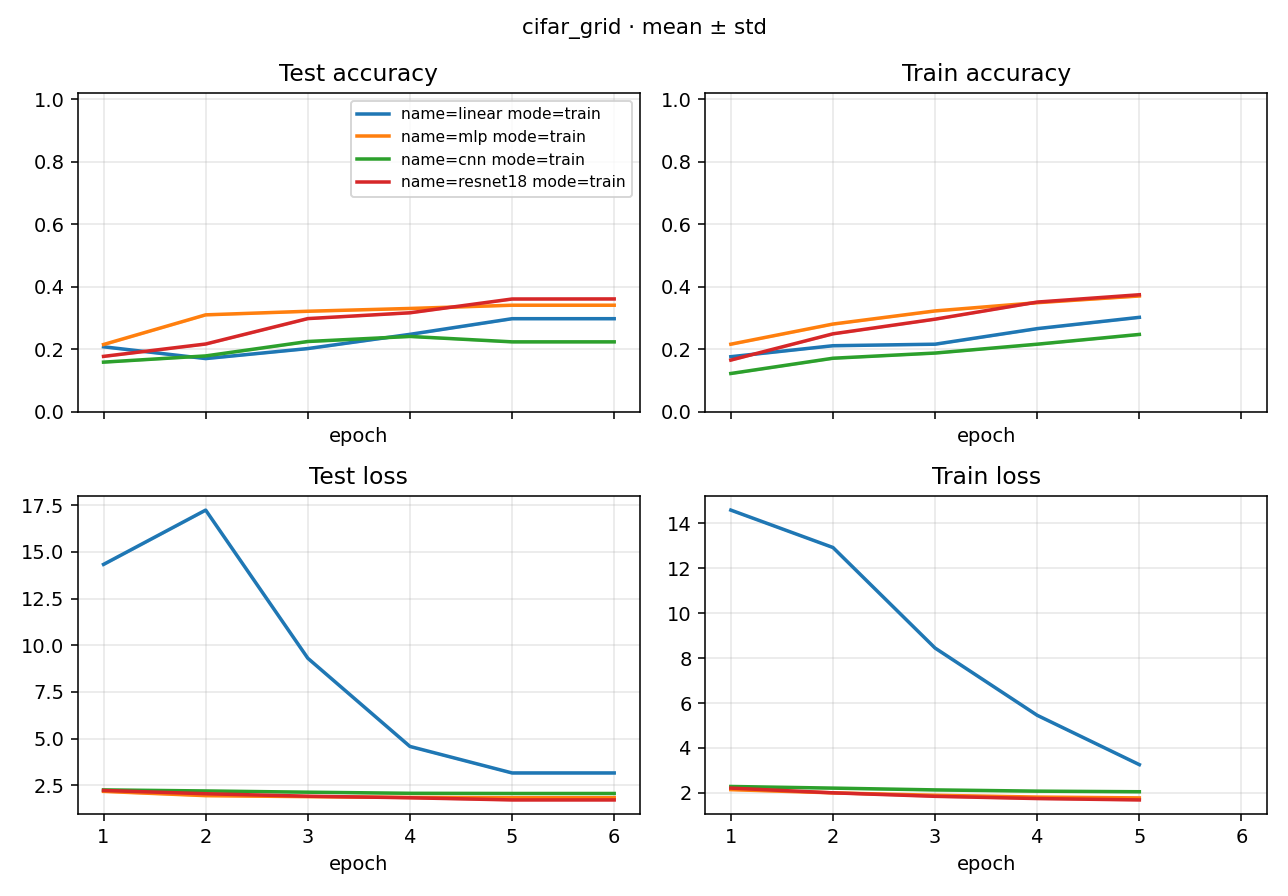
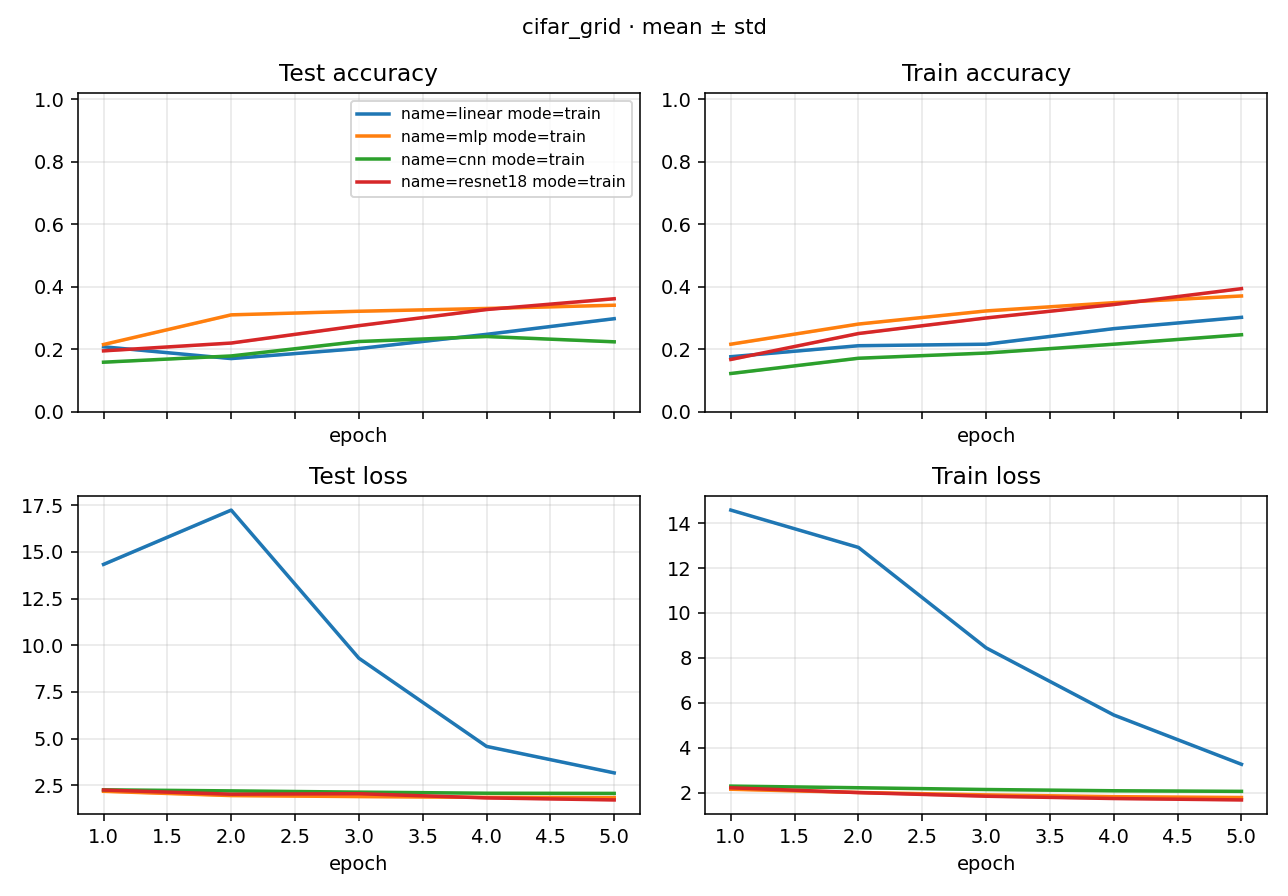
Record estimated and actual run time in each study report.
Plans keep the pre-launch estimate. Reports put the round wall in the run narrative and est/actual on each Runs row, so another machine can read the cost from git.

diff --git a/studies/mnist_native_vs_hf/docs/STUDY_REPORT.md b/studies/mnist_native_vs_hf/docs/STUDY_REPORT.md
@@ -14,7 +14,7 @@ python -m rpipe make studies/mnist_native_vs_hf
 python -m rpipe launch studies/mnist_native_vs_hf --console shared
 ```
 
-机器：RTX 5090 D v2 主机，但本 Study 全部使用 CPU。make：`pack 5 waits: 4[linear×4], 4[linear×4], 4[linear×4], 4[linear×4], 2[linear×2] est wall 5m20s | CPU`；18 个 job 均为 `device: cpu`，没有 `gpu` 字段，launch 标签为 `+ cpu`。实测约 2m31s。18/18 `succeeded`，全部从 epoch 1 跑到 epoch 20。error / resume：无。
+机器：RTX 5090 D v2 主机，但本 Study 全部使用 CPU。make：`pack 5 waits`；18 个 job 均为 `device: cpu`，没有 `gpu` 字段，launch 标签为 `+ cpu`。整轮预估 5m20s，实际 2m53s。18/18 `succeeded`，全部从 epoch 1 跑到 epoch 20。error / resume：无。每条 Run 的预估和实际在下面的 Runs 表。
 
 ## 2. Conclusion
 
@@ -40,26 +40,26 @@ python -m rpipe launch studies/mnist_native_vs_hf --console shared
 
 点表格里的 **run.log** 打开该次日志。结论仍按 Experiment。
 
-| factors | seed | id | accuracy | best | log |
-|---------|------|----|----------|------|-----|
-| custom_torch train_size=500 | 0 | `7c48352c847b2096` | 0.8328 | 0.8346 | [run.log](../runs/7c48352c847b2096/assets/logs/run.log) |
-| custom_torch train_size=500 | 1 | `5662540f720e8797` | 0.8341 | 0.8344 | [run.log](../runs/5662540f720e8797/assets/logs/run.log) |
-| custom_torch train_size=500 | 2 | `5bb24f8a4b518994` | 0.8359 | 0.8375 | [run.log](../runs/5bb24f8a4b518994/assets/logs/run.log) |
-| transformers_trainer train_size=500 | 0 | `6b3522139506555d` | 0.8328 | 0.8346 | [run.log](../runs/6b3522139506555d/assets/logs/run.log) |
-| transformers_trainer train_size=500 | 1 | `7036783459b4dee3` | 0.8341 | 0.8344 | [run.log](../runs/7036783459b4dee3/assets/logs/run.log) |
-| transformers_trainer train_size=500 | 2 | `e006258b46e5e54c` | 0.8359 | 0.8375 | [run.log](../runs/e006258b46e5e54c/assets/logs/run.log) |
-| custom_torch train_size=2000 | 0 | `c96de76cbb910155` | 0.8818 | 0.8841 | [run.log](../runs/c96de76cbb910155/assets/logs/run.log) |
-| custom_torch train_size=2000 | 1 | `7d8d11439fd02689` | 0.8828 | 0.8835 | [run.log](../runs/7d8d11439fd02689/assets/logs/run.log) |
-| custom_torch train_size=2000 | 2 | `71a8ba2c73de2c4f` | 0.8846 | 0.8851 | [run.log](../runs/71a8ba2c73de2c4f/assets/logs/run.log) |
-| transformers_trainer train_size=2000 | 0 | `529a5bf98413e51e` | 0.8818 | 0.8841 | [run.log](../runs/529a5bf98413e51e/assets/logs/run.log) |
-| transformers_trainer train_size=2000 | 1 | `c5847d1f3f2da766` | 0.8828 | 0.8835 | [run.log](../runs/c5847d1f3f2da766/assets/logs/run.log) |
-| transformers_trainer train_size=2000 | 2 | `6ab372aeaa9bd64a` | 0.8846 | 0.8851 | [run.log](../runs/6ab372aeaa9bd64a/assets/logs/run.log) |
-| custom_torch train_size=8000 | 0 | `e971cf5220878f98` | 0.9065 | 0.9070 | [run.log](../runs/e971cf5220878f98/assets/logs/run.log) |
-| custom_torch train_size=8000 | 1 | `a34e2f965d427746` | 0.9056 | 0.9072 | [run.log](../runs/a34e2f965d427746/assets/logs/run.log) |
-| custom_torch train_size=8000 | 2 | `8de79ab58f66b2bb` | 0.9062 | 0.9078 | [run.log](../runs/8de79ab58f66b2bb/assets/logs/run.log) |
-| transformers_trainer train_size=8000 | 0 | `021d59955431eda9` | 0.9067 | 0.9069 | [run.log](../runs/021d59955431eda9/assets/logs/run.log) |
-| transformers_trainer train_size=8000 | 1 | `38b06b38804eb60e` | 0.9069 | 0.9082 | [run.log](../runs/38b06b38804eb60e/assets/logs/run.log) |
-| transformers_trainer train_size=8000 | 2 | `71be2847ca254e8e` | 0.9071 | 0.9078 | [run.log](../runs/71be2847ca254e8e/assets/logs/run.log) |
+| factors | seed | id | accuracy | best | est | actual | log |
+|---------|------|----|----------|------|-----|--------|-----|
+| custom_torch train_size=500 | 0 | `7c48352c847b2096` | 0.8328 | 0.8346 | 5s | 24s | [run.log](../runs/7c48352c847b2096/assets/logs/run.log) |
+| custom_torch train_size=500 | 1 | `5662540f720e8797` | 0.8341 | 0.8344 | 5s | 24s | [run.log](../runs/5662540f720e8797/assets/logs/run.log) |
+| custom_torch train_size=500 | 2 | `5bb24f8a4b518994` | 0.8359 | 0.8375 | 5s | 24s | [run.log](../runs/5bb24f8a4b518994/assets/logs/run.log) |
+| transformers_trainer train_size=500 | 0 | `6b3522139506555d` | 0.8328 | 0.8346 | 5s | 30s | [run.log](../runs/6b3522139506555d/assets/logs/run.log) |
+| transformers_trainer train_size=500 | 1 | `7036783459b4dee3` | 0.8341 | 0.8344 | 5s | 30s | [run.log](../runs/7036783459b4dee3/assets/logs/run.log) |
+| transformers_trainer train_size=500 | 2 | `e006258b46e5e54c` | 0.8359 | 0.8375 | 5s | 30s | [run.log](../runs/e006258b46e5e54c/assets/logs/run.log) |
+| custom_torch train_size=2000 | 0 | `c96de76cbb910155` | 0.8818 | 0.8841 | 20s | 26s | [run.log](../runs/c96de76cbb910155/assets/logs/run.log) |
+| custom_torch train_size=2000 | 1 | `7d8d11439fd02689` | 0.8828 | 0.8835 | 20s | 27s | [run.log](../runs/7d8d11439fd02689/assets/logs/run.log) |
+| custom_torch train_size=2000 | 2 | `71a8ba2c73de2c4f` | 0.8846 | 0.8851 | 20s | 27s | [run.log](../runs/71a8ba2c73de2c4f/assets/logs/run.log) |
+| transformers_trainer train_size=2000 | 0 | `529a5bf98413e51e` | 0.8818 | 0.8841 | 20s | 30s | [run.log](../runs/529a5bf98413e51e/assets/logs/run.log) |
+| transformers_trainer train_size=2000 | 1 | `c5847d1f3f2da766` | 0.8828 | 0.8835 | 20s | 30s | [run.log](../runs/c5847d1f3f2da766/assets/logs/run.log) |
+| transformers_trainer train_size=2000 | 2 | `6ab372aeaa9bd64a` | 0.8846 | 0.8851 | 20s | 30s | [run.log](../runs/6ab372aeaa9bd64a/assets/logs/run.log) |
+| custom_torch train_size=8000 | 0 | `e971cf5220878f98` | 0.9065 | 0.9070 | 1m15s | 37s | [run.log](../runs/e971cf5220878f98/assets/logs/run.log) |
+| custom_torch train_size=8000 | 1 | `a34e2f965d427746` | 0.9056 | 0.9072 | 1m15s | 37s | [run.log](../runs/a34e2f965d427746/assets/logs/run.log) |
+| custom_torch train_size=8000 | 2 | `8de79ab58f66b2bb` | 0.9062 | 0.9078 | 1m15s | 34s | [run.log](../runs/8de79ab58f66b2bb/assets/logs/run.log) |
+| transformers_trainer train_size=8000 | 0 | `021d59955431eda9` | 0.9067 | 0.9069 | 1m15s | 39s | [run.log](../runs/021d59955431eda9/assets/logs/run.log) |
+| transformers_trainer train_size=8000 | 1 | `38b06b38804eb60e` | 0.9069 | 0.9082 | 1m15s | 34s | [run.log](../runs/38b06b38804eb60e/assets/logs/run.log) |
+| transformers_trainer train_size=8000 | 2 | `71be2847ca254e8e` | 0.9071 | 0.9078 | 1m15s | 34s | [run.log](../runs/71be2847ca254e8e/assets/logs/run.log) |
 
 ## 5. Reproduce
 

diff --git a/studies/mnist_train_size/docs/STUDY_REPORT.md b/studies/mnist_train_size/docs/STUDY_REPORT.md
@@ -14,7 +14,7 @@ python -m rpipe make studies/mnist_train_size --num-gpus 1 --init-gpu 0
 python -m rpipe launch studies/mnist_train_size --num-gpus 1 --init-gpu 0 --console shared
 ```
 
-机器：1× RTX 5090 D v2。make：`pack 2 waits: 9[linear×9], 9[linear×9] est wall 1m34s`。实测约 40s。18/18 `succeeded`；train 全部从 epoch 1 跑到 epoch 20，随后 eval 加载 sibling train 的 `best.pt`。eval accuracy mean 对齐同格子 train 的 `best_accuracy` mean。error / resume：无。
+机器：1× RTX 5090 D v2。make：`pack 2 waits`。整轮预估 1m34s，实际 42s。18/18 `succeeded`；train 全部从 epoch 1 跑到 epoch 20，随后 eval 加载 sibling train 的 `best.pt`。eval accuracy mean 对齐同格子 train 的 `best_accuracy` mean。error / resume：无。每条 Run 的预估和实际在下面的 Runs 表。
 
 ## 2. Conclusion
 
@@ -38,26 +38,26 @@ python -m rpipe launch studies/mnist_train_size --num-gpus 1 --init-gpu 0 --cons
 
 点表格里的 **run.log** 打开该次日志（源码视图用 Ctrl+点击；预览里直接点）。结论仍按 Experiment。
 
-| factors | seed | id | accuracy | log |
-|---------|------|----|----------|-----|
-| train_size=500 train | 0 | `8176170127f91cf0` | 0.8328 | [run.log](../runs/8176170127f91cf0/assets/logs/run.log) |
-| train_size=500 train | 1 | `fc81e18a5207a45d` | 0.8341 | [run.log](../runs/fc81e18a5207a45d/assets/logs/run.log) |
-| train_size=500 train | 2 | `442977f37212ef68` | 0.8359 | [run.log](../runs/442977f37212ef68/assets/logs/run.log) |
-| train_size=500 eval | 0 | `e957d8a364952d1f` | 0.8346 | [run.log](../runs/e957d8a364952d1f/assets/logs/run.log) |
-| train_size=500 eval | 1 | `dff1613a7bc1fd5f` | 0.8344 | [run.log](../runs/dff1613a7bc1fd5f/assets/logs/run.log) |
-| train_size=500 eval | 2 | `56bc9bd79216fbba` | 0.8375 | [run.log](../runs/56bc9bd79216fbba/assets/logs/run.log) |
-| train_size=2000 train | 0 | `d48fd72e60c7f6ac` | 0.8818 | [run.log](../runs/d48fd72e60c7f6ac/assets/logs/run.log) |
-| train_size=2000 train | 1 | `bb1c4bab027af782` | 0.8828 | [run.log](../runs/bb1c4bab027af782/assets/logs/run.log) |
-| train_size=2000 train | 2 | `31c40cec0f6d9cd5` | 0.8846 | [run.log](../runs/31c40cec0f6d9cd5/assets/logs/run.log) |
-| train_size=2000 eval | 0 | `478225eadad22061` | 0.8841 | [run.log](../runs/478225eadad22061/assets/logs/run.log) |
-| train_size=2000 eval | 1 | `b42b4fd9d969a3d6` | 0.8835 | [run.log](../runs/b42b4fd9d969a3d6/assets/logs/run.log) |
-| train_size=2000 eval | 2 | `02214314ba92307e` | 0.8851 | [run.log](../runs/02214314ba92307e/assets/logs/run.log) |
-| train_size=8000 train | 0 | `ae8cf11290ed6b54` | 0.9065 | [run.log](../runs/ae8cf11290ed6b54/assets/logs/run.log) |
-| train_size=8000 train | 1 | `8217ff232db48b12` | 0.9056 | [run.log](../runs/8217ff232db48b12/assets/logs/run.log) |
-| train_size=8000 train | 2 | `778bd5b434d18762` | 0.9062 | [run.log](../runs/778bd5b434d18762/assets/logs/run.log) |
-| train_size=8000 eval | 0 | `92abeedb98737917` | 0.9070 | [run.log](../runs/92abeedb98737917/assets/logs/run.log) |
-| train_size=8000 eval | 1 | `9d9e6347dee60c86` | 0.9072 | [run.log](../runs/9d9e6347dee60c86/assets/logs/run.log) |
-| train_size=8000 eval | 2 | `a83a100692ba2930` | 0.9078 | [run.log](../runs/a83a100692ba2930/assets/logs/run.log) |
+| factors | seed | id | accuracy | est | actual | log |
+|---------|------|----|----------|-----|--------|-----|
+| train_size=500 train | 0 | `8176170127f91cf0` | 0.8328 | 5s | 24s | [run.log](../runs/8176170127f91cf0/assets/logs/run.log) |
+| train_size=500 train | 1 | `fc81e18a5207a45d` | 0.8341 | 5s | 24s | [run.log](../runs/fc81e18a5207a45d/assets/logs/run.log) |
+| train_size=500 train | 2 | `442977f37212ef68` | 0.8359 | 5s | 24s | [run.log](../runs/442977f37212ef68/assets/logs/run.log) |
+| train_size=500 eval | 0 | `e957d8a364952d1f` | 0.8346 | 2s | 4s | [run.log](../runs/e957d8a364952d1f/assets/logs/run.log) |
+| train_size=500 eval | 1 | `dff1613a7bc1fd5f` | 0.8344 | 2s | 4s | [run.log](../runs/dff1613a7bc1fd5f/assets/logs/run.log) |
+| train_size=500 eval | 2 | `56bc9bd79216fbba` | 0.8375 | 2s | 4s | [run.log](../runs/56bc9bd79216fbba/assets/logs/run.log) |
+| train_size=2000 train | 0 | `d48fd72e60c7f6ac` | 0.8818 | 20s | 26s | [run.log](../runs/d48fd72e60c7f6ac/assets/logs/run.log) |
+| train_size=2000 train | 1 | `bb1c4bab027af782` | 0.8828 | 20s | 27s | [run.log](../runs/bb1c4bab027af782/assets/logs/run.log) |
+| train_size=2000 train | 2 | `31c40cec0f6d9cd5` | 0.8846 | 20s | 27s | [run.log](../runs/31c40cec0f6d9cd5/assets/logs/run.log) |
+| train_size=2000 eval | 0 | `478225eadad22061` | 0.8841 | 5s | 4s | [run.log](../runs/478225eadad22061/assets/logs/run.log) |
+| train_size=2000 eval | 1 | `b42b4fd9d969a3d6` | 0.8835 | 5s | 4s | [run.log](../runs/b42b4fd9d969a3d6/assets/logs/run.log) |
+| train_size=2000 eval | 2 | `02214314ba92307e` | 0.8851 | 5s | 4s | [run.log](../runs/02214314ba92307e/assets/logs/run.log) |
+| train_size=8000 train | 0 | `ae8cf11290ed6b54` | 0.9065 | 1m15s | 37s | [run.log](../runs/ae8cf11290ed6b54/assets/logs/run.log) |
+| train_size=8000 train | 1 | `8217ff232db48b12` | 0.9056 | 1m15s | 37s | [run.log](../runs/8217ff232db48b12/assets/logs/run.log) |
+| train_size=8000 train | 2 | `778bd5b434d18762` | 0.9062 | 1m15s | 37s | [run.log](../runs/778bd5b434d18762/assets/logs/run.log) |
+| train_size=8000 eval | 0 | `92abeedb98737917` | 0.9070 | 19s | 4s | [run.log](../runs/92abeedb98737917/assets/logs/run.log) |
+| train_size=8000 eval | 1 | `9d9e6347dee60c86` | 0.9072 | 19s | 4s | [run.log](../runs/9d9e6347dee60c86/assets/logs/run.log) |
+| train_size=8000 eval | 2 | `a83a100692ba2930` | 0.9078 | 19s | 4s | [run.log](../runs/a83a100692ba2930/assets/logs/run.log) |
 
 ## 5. Reproduce
 

diff --git a/studies/cifar_grid/docs/STUDY_REPORT.md b/studies/cifar_grid/docs/STUDY_REPORT.md
@@ -1,7 +1,7 @@
 # Study Report: cifar_grid
 
 > Plan: [PLAN.md](PLAN.md)
-> Date: 2026-09-26
+> Date: 2026-09-30
 > Recipe: CIFAR10 + custom_torch；`origin: domestic`；`train_size=1024`；5 epoch；SGD + cosine。axes = `model.name` × `{train, eval}`。seed = 0。
 > Location: Study `docs/`。数字读 `../process.json`。日志按 index 的 `log` 链到各 Run 的 `run.log`。
 
@@ -15,7 +15,7 @@ python -m rpipe launch studies/cifar_grid --num-gpus 1 --init-gpu 0 --console sh
 python -m rpipe status studies/cifar_grid
 ```
 
-机器：1× RTX 5090 D v2。make：`pack 8 waits: 1[linear], 1[mlp], 1[cnn], 1[resnet18], 1[linear], 1[mlp], 1[cnn], 1[resnet18] est wall 43s`。launch 实测约 87s。8/8 `succeeded`。train 从 epoch 1 跑到 epoch 5，随后 eval 加载 sibling train 的 `best.pt`。error / resume：mlp eval `f487ffe68a52f01c` 第一次 prepare 报 `operator torchvision::nms does not exist`，launch 自动 retry 后成功。见 [BUGS.md](../../../docs/BUGS.md) B-007。
+机器：1× RTX 5090 D v2。make：`pack 8 waits`。整轮预估 43s，实际 1m21s。8/8 `succeeded`。train 从 epoch 1 跑到 epoch 5，随后 eval 加载 sibling train 的 `best.pt`。这次没有 `torchvision::nms`，也没有 retry。2026-09-26 那次 mlp eval 的失败仍记在 [BUGS.md](../../../docs/BUGS.md) B-007，状态保持 open。每条 Run 的预估和实际在下面的 Runs 表。
 
 ## 2. Conclusion
 
@@ -23,12 +23,12 @@ python -m rpipe status studies/cifar_grid
 
 | model | eval accuracy |
 |-------|---------------|
-| resnet18 | 0.3615 |
+| resnet18 | 0.3621 |
 | mlp | 0.3415 |
 | linear | 0.2984 |
-| cnn | 0.2416 |
+| cnn | 0.2413 |
 
-这 1024 张、5 个 epoch 的小子集上，resnet18 最高，mlp 次之，linear 再次，cnn 最低。cnn 的 eval 对齐的是 train 的 best（0.2416），不是最后一个 epoch 的 test accuracy（0.2243）。linear 和 mlp 的最后一个 epoch 就是 best，eval 与之相同。
+这 1024 张、5 个 epoch 的小子集上，resnet18 最高，mlp 次之，linear 再次，cnn 最低。cnn 的 eval 对齐的是 train 的 best（0.2414），不是最后一个 epoch 的 test accuracy（0.2244）。linear 和 mlp 的最后一个 epoch 就是 best，eval 与之相同。resnet18 的 eval 是 0.3621，train 最后一个 epoch 是 0.3622。
 
 ## 3. Learning curves
 
@@ -40,16 +40,16 @@ python -m rpipe status studies/cifar_grid
 
 点表格里的 **run.log** 打开该次日志（源码视图用 Ctrl+点击；预览里直接点）。结论仍按 Experiment。
 
-| model | mode | seed | id | accuracy | log |
-|-------|------|------|----|----------|-----|
-| linear | train | 0 | `28a64726010738fb` | 0.2984 | [run.log](../runs/28a64726010738fb/assets/logs/run.log) |
-| linear | eval | 0 | `3ddb5e6cf166f93f` | 0.2984 | [run.log](../runs/3ddb5e6cf166f93f/assets/logs/run.log) |
-| mlp | train | 0 | `b86a478be0bec010` | 0.3415 | [run.log](../runs/b86a478be0bec010/assets/logs/run.log) |
-| mlp | eval | 0 | `f487ffe68a52f01c` | 0.3415 | [run.log](../runs/f487ffe68a52f01c/assets/logs/run.log) |
-| cnn | train | 0 | `d657518c04ceffe1` | 0.2243 | [run.log](../runs/d657518c04ceffe1/assets/logs/run.log) |
-| cnn | eval | 0 | `e55d19bc4b3d29c2` | 0.2416 | [run.log](../runs/e55d19bc4b3d29c2/assets/logs/run.log) |
-| resnet18 | train | 0 | `7c3f855ce3396781` | 0.3614 | [run.log](../runs/7c3f855ce3396781/assets/logs/run.log) |
-| resnet18 | eval | 0 | `0f238fbd83ed13f8` | 0.3615 | [run.log](../runs/0f238fbd83ed13f8/assets/logs/run.log) |
+| model | mode | seed | id | accuracy | est | actual | log |
+|-------|------|------|----|----------|-----|--------|-----|
+| linear | train | 0 | `28a64726010738fb` | 0.2984 | 3s | 10s | [run.log](../runs/28a64726010738fb/assets/logs/run.log) |
+| linear | eval | 0 | `3ddb5e6cf166f93f` | 0.2984 | 1s | 4s | [run.log](../runs/3ddb5e6cf166f93f/assets/logs/run.log) |
+| mlp | train | 0 | `b86a478be0bec010` | 0.3415 | 4s | 8s | [run.log](../runs/b86a478be0bec010/assets/logs/run.log) |
+| mlp | eval | 0 | `f487ffe68a52f01c` | 0.3415 | 1s | 4s | [run.log](../runs/f487ffe68a52f01c/assets/logs/run.log) |
+| cnn | train | 0 | `d657518c04ceffe1` | 0.2244 | 7s | 12s | [run.log](../runs/d657518c04ceffe1/assets/logs/run.log) |
+| cnn | eval | 0 | `e55d19bc4b3d29c2` | 0.2413 | 2s | 7s | [run.log](../runs/e55d19bc4b3d29c2/assets/logs/run.log) |
+| resnet18 | train | 0 | `7c3f855ce3396781` | 0.3622 | 20s | 19s | [run.log](../runs/7c3f855ce3396781/assets/logs/run.log) |
+| resnet18 | eval | 0 | `0f238fbd83ed13f8` | 0.3621 | 5s | 13s | [run.log](../runs/0f238fbd83ed13f8/assets/logs/run.log) |
 
 ## 5. Reproduce
 

diff --git a/docs/BUGS.md b/docs/BUGS.md
@@ -22,7 +22,7 @@
 - 看见：2026-09-26 `launch studies/cifar_grid` 时，mlp 的 eval `f487ffe68a52f01c` 在 `from torchvision import datasets` 处失败：`RuntimeError: operator torchvision::nms does not exist`。同一进程稍后 `retry` 再跑，prepare 通过，eval 成功。`run.log` 里先有这次 ERROR，后面是 `flow succeeded`。其余 7 条没有这个错误。
 - 落点：`structure/system/torchvision_load.py`，由 `structure/data/factory.py` 的 `_build_torch_vision` 调用。现场日志 `studies/cifar_grid/runs/f487ffe68a52f01c/assets/logs/run.log`。
 - 方案：公开记录（[vision#9174](https://github.com/pytorch/vision/issues/9174)、[vision#8101](https://github.com/pytorch/vision/issues/8101)、[PyTorch 论坛](https://discuss.pytorch.org/t/runtimeerror-operator-torchvision-nms-does-not-exist/192829)）把这句解释成 `torchvision/_C` 没注册上。常见原因是 `torch` 与 `torchvision` 版本不配，或一个是 CPU 轮子、一个是 CUDA 轮子。`extension.py` 会吞掉真正的 `OSError`，然后 `_meta_registrations.py` 给 `nms` 登记 fake 才抛出这句。那边的修法是卸掉后从同一 index 重装配对，不是在同进程里重试导入。本机现在是 `torch 2.11.0+cu128` 与 `torchvision 0.26.0+cu128`，都在 `D:\anaconda3\Lib\site-packages`，`_has_ops()` 为 True。代码里仍会在这句错误上清掉半导入再试最多 3 次，并设 `TORCHVISION_WARN_WHEN_EXTENSION_LOADING_FAILS=1`。这层重试没有公开案例说明能治版本不配；版本不配时每次导入都会失败。
-- 验证：单测只把 `import_module` 换成假的，证明重试分支会再调一次。2026-09-26 另开 24 个新进程走 `import_torchvision()`，24 次都成功，这句错误没有再出现。同进程里 `_C` 真失败之后清掉 `sys.modules` 能否恢复，还没有打出来过。
+- 验证：单测只把 `import_module` 换成假的，证明重试分支会再调一次。2026-09-26 另开 24 个新进程走 `import_torchvision()`，24 次都成功，这句错误没有再出现。同进程里 `_C` 真失败之后清掉 `sys.modules` 能否恢复，还没有打出来过。2026-09-30 清掉 `runs/` 后从头 launch `cifar_grid`（8/8）、`mnist_train_size`（18/18）、`mnist_native_vs_hf`（18/18），日志里没有 `torchvision::nms`，也没有 retry。状态仍是 open。
 
 ---
 

diff --git a/studies/mnist_native_vs_hf/docs/PLAN.md b/studies/mnist_native_vs_hf/docs/PLAN.md
@@ -51,6 +51,32 @@ python -m rpipe make studies/mnist_native_vs_hf
 python -m rpipe launch studies/mnist_native_vs_hf --console shared
 ```
 
+## 时长预估
+
+launch 之前，按 make 的 conservative 秒数。同一 `wait` 里并行，组墙钟取该组最慢的一条；整轮是各组相加。不含显存。本 Study 在 CPU 上跑，预估表和 CUDA 用的是同一套毫秒/step。
+
+| wait | factors | mode | seed | id | est |
+|---:|---|---|---:|---|---:|
+| 1 | source=custom_torch, train_size=500 | train | 0 | `7c48352c847b2096` | 5s |
+| 1 | source=custom_torch, train_size=500 | train | 1 | `5662540f720e8797` | 5s |
+| 1 | source=custom_torch, train_size=500 | train | 2 | `5bb24f8a4b518994` | 5s |
+| 1 | source=custom_torch, train_size=2000 | train | 0 | `c96de76cbb910155` | 20s |
+| 2 | source=custom_torch, train_size=2000 | train | 1 | `7d8d11439fd02689` | 20s |
+| 2 | source=custom_torch, train_size=2000 | train | 2 | `71a8ba2c73de2c4f` | 20s |
+| 2 | source=custom_torch, train_size=8000 | train | 0 | `e971cf5220878f98` | 1m15s |
+| 2 | source=custom_torch, train_size=8000 | train | 1 | `a34e2f965d427746` | 1m15s |
+| 3 | source=custom_torch, train_size=8000 | train | 2 | `8de79ab58f66b2bb` | 1m15s |
+| 3 | source=transformers_trainer, train_size=500 | train | 0 | `6b3522139506555d` | 5s |
+| 3 | source=transformers_trainer, train_size=500 | train | 1 | `7036783459b4dee3` | 5s |
+| 3 | source=transformers_trainer, train_size=500 | train | 2 | `e006258b46e5e54c` | 5s |
+| 4 | source=transformers_trainer, train_size=2000 | train | 0 | `529a5bf98413e51e` | 20s |
+| 4 | source=transformers_trainer, train_size=2000 | train | 1 | `c5847d1f3f2da766` | 20s |
+| 4 | source=transformers_trainer, train_size=2000 | train | 2 | `6ab372aeaa9bd64a` | 20s |
+| 4 | source=transformers_trainer, train_size=8000 | train | 0 | `021d59955431eda9` | 1m15s |
+| 5 | source=transformers_trainer, train_size=8000 | train | 1 | `38b06b38804eb60e` | 1m15s |
+| 5 | source=transformers_trainer, train_size=8000 | train | 2 | `71be2847ca254e8e` | 1m15s |
+| | 整轮 | | | | 5m20s |
+
 ## 6. 刻意不做什么
 
 - 不把独立 eval 做成 Flow 阶段

diff --git a/docs/STUDY_GUIDE.md b/docs/STUDY_GUIDE.md
@@ -356,7 +356,7 @@ python -m rpipe status studies/<name> --mode eval
 
 1. 复制 `studies/_template/` 为 `studies/<name>/`，对照本指南 §1–§3。  
 2. 改 `experiment_config.yaml` 的基底；改 `study.yaml` 的 `axes` / `seeds` / `tags`。  
-3. 在 `docs/PLAN.md` 写清：比什么、什么固定、成功标准，以及 **§3 高效率排班**（同类一组、吃满 GPU、error 记下来整轮后再 resume）。  
+3. 在 `docs/PLAN.md` 写清：比什么、什么固定、成功标准，以及 **§3 高效率排班**（同类一组、吃满 GPU、error 记下来整轮后再 resume）。`make` 之后、`launch` 之前，把每条 Run 的预估秒数写进 **时长预估** 表。同一 `wait` 的墙钟是组内最慢的一条，整轮是各组相加。不含显存。  
 4. `python -m rpipe run studies/<name> --skip-launch`，核对 index。  
 5. `python -m rpipe make studies/<name>`，看打印的 `pack N waits`，再 `python -m rpipe launch studies/<name>`（launch 不应再印 pack）。  
 6. `python -m rpipe status studies/<name>` 看谁 `succeeded` / `failed` / `pending`。`python -m rpipe report studies/<name>` 把数字表写到 `docs/NUMBERS.md`。读 `process.json` + `docs/figures/learning_curves.png`，按 Experiment 写 `docs/STUDY_REPORT.md`：图做成可点链接，Run 表带各 `run.log` 链接。结论仍由人写。
@@ -367,7 +367,8 @@ python -m rpipe status studies/<name> --mode eval
 - [ ] `axes` 与 `seeds` 分开  
 - [ ] 每个 Run 的 config 含 `seed`  
 - [ ] 结论按 Experiment 聚合，而不是按扁平 run 列表  
-- [ ] `PLAN.md` / `STUDY_REPORT.md` 写清本轮怎么并行（同类一组、error 后续跑）  
+- [ ] `PLAN.md` / `STUDY_REPORT.md` 写清本轮怎么并行（同类一组、error 后续跑）
+- [ ] `STUDY_REPORT.md` 的「怎么跑的」写整轮预估和实际；Runs 表每行有 `est` 和 `actual`。不另开时长记录，不含显存  
 - [ ] `STUDY_REPORT.md` 有可点开的 learning curve，以及各 Run 的 `run.log` 链接  
 
 ---

diff --git a/studies/mnist_train_size/docs/PLAN.md b/studies/mnist_train_size/docs/PLAN.md
@@ -47,6 +47,32 @@ python -m rpipe make studies/mnist_train_size --num-gpus 1 --init-gpu 0
 python -m rpipe launch studies/mnist_train_size --num-gpus 1 --init-gpu 0 --console shared
 ```
 
+## 时长预估
+
+launch 之前，按 make 的 conservative 秒数。同一 `wait` 里并行，组墙钟取该组最慢的一条；整轮是各组相加。不含显存。
+
+| wait | factors | mode | seed | id | est |
+|---:|---|---|---:|---|---:|
+| 1 | train_size=500 | train | 0 | `8176170127f91cf0` | 5s |
+| 1 | train_size=500 | train | 1 | `fc81e18a5207a45d` | 5s |
+| 1 | train_size=500 | train | 2 | `442977f37212ef68` | 5s |
+| 1 | train_size=2000 | train | 0 | `d48fd72e60c7f6ac` | 20s |
+| 1 | train_size=2000 | train | 1 | `bb1c4bab027af782` | 20s |
+| 1 | train_size=2000 | train | 2 | `31c40cec0f6d9cd5` | 20s |
+| 1 | train_size=8000 | train | 0 | `ae8cf11290ed6b54` | 1m15s |
+| 1 | train_size=8000 | train | 1 | `8217ff232db48b12` | 1m15s |
+| 1 | train_size=8000 | train | 2 | `778bd5b434d18762` | 1m15s |
+| 2 | train_size=500 | eval | 0 | `e957d8a364952d1f` | 2s |
+| 2 | train_size=500 | eval | 1 | `dff1613a7bc1fd5f` | 2s |
+| 2 | train_size=500 | eval | 2 | `56bc9bd79216fbba` | 2s |
+| 2 | train_size=2000 | eval | 0 | `478225eadad22061` | 5s |
+| 2 | train_size=2000 | eval | 1 | `b42b4fd9d969a3d6` | 5s |
+| 2 | train_size=2000 | eval | 2 | `02214314ba92307e` | 5s |
+| 2 | train_size=8000 | eval | 0 | `92abeedb98737917` | 19s |
+| 2 | train_size=8000 | eval | 1 | `9d9e6347dee60c86` | 19s |
+| 2 | train_size=8000 | eval | 2 | `a83a100692ba2930` | 19s |
+| | 整轮 | | | | 1m34s |
+
 ## 6. 成功标准
 
 - 18 次 Run `status: succeeded`

diff --git a/studies/_template/docs/PLAN.md b/studies/_template/docs/PLAN.md
@@ -29,7 +29,7 @@
 
 - **同类一组：** 同一 `model.name`、相近耗时的 Run 一起并行；不要把 resnet 和 linear 塞进同一 `wait`。
 - **`wait` 闸门：** 组末必须等本组进程退出、显存释放完，才开下一组。不 wait 下一波会挤进来，容易 OOM。
-- **吃满 GPU：** `python -m rpipe make studies/<name> --num-gpus 1` 默认 `--round auto`；看 **make** 打印的 `pack N waits`（launch 不重印）。conservative 墙钟是各组最慢条加总，只供排班。
+- **吃满 GPU：** `python -m rpipe make studies/<name> --num-gpus 1` 默认 `--round auto`；看 **make** 打印的 `pack N waits`（launch 不重印）。conservative 墙钟是各组最慢条加总。
 - **依赖：** 有 `algorithm.mode: eval` 时先全部 train `wait` 完，再 eval。
 - **error：** 单条失败只记 `run_id`；整轮结束后对未 succeeded 的格子 `resume: latest` 再跑。
 - **seed ≠ 并发。**
@@ -38,6 +38,15 @@
 python -m rpipe make studies/<name> --num-gpus 1 --init-gpu 0
 python -m rpipe launch studies/<name> --num-gpus 1 --init-gpu 0
 ```
+
+## 时长预估
+
+`make` 之后、`launch` 之前填。每一行是一条 Run 的预估秒数。同一 `wait` 并行，组墙钟取该组最慢的一条；整轮是各组相加。不含显存。
+
+| wait | factors | mode | seed | id | est |
+|---:|---|---|---:|---|---:|
+|  |  |  |  |  |  |
+| | 整轮 | | | |  |
 
 ## 6. 成功标准
 

diff --git a/docs/BRAINSTORM.md b/docs/BRAINSTORM.md
@@ -54,7 +54,7 @@
 | `rpipe logs` | 只读，同一份 readout。各 Run 事件行按时间打到终端。不写 Study 级总 log |
 | `rpipe report` | 同一份 readout。从 `process.json` 写 `docs/NUMBERS.md`：Experiment mean / std / min / max 和 Run 表。不改 `STUDY_REPORT.md` 的结论 |
 | `split-round` | make 已有 |
-| CIFAR 小网格 | `studies/cifar_grid/`。2026-09-29 从头重跑，8/8 succeeded。结论在该 Study 的 `docs/STUDY_REPORT.md` |
+| CIFAR 小网格 | `studies/cifar_grid/`。2026-09-30 从头重跑，8/8 succeeded，没有 `torchvision::nms`。结论在该 Study 的 `docs/STUDY_REPORT.md` |
 | `run.log` 行格式 | `时间 级别 Run id [事件] 内容`。时间是 RFC 3339 毫秒+时区。事件：`[flow]` `[error]` `[warn]` `[epoch]` `[split]` `[metric]` `[time]` `[ckpt]` `[resume]`。traceback 每一行都是 `[error]`。不改 `result.json`。PR #8，`e9a2f6b`，已进 `dev` |
 | 测试规范 | `docs/TESTING.md` 采用 2026-09-28 正式规范。用例声明 `cost_class` 和 `result_type`。PR #8 当时 `--core` 142、`--all` 151。其后的 status / logs / report 用例还在本地，通过数以当次 `tests/run.py` 为准 |
 

diff --git a/studies/cifar_grid/docs/PLAN.md b/studies/cifar_grid/docs/PLAN.md
@@ -48,6 +48,22 @@ python -m rpipe launch studies/cifar_grid --num-gpus 1 --init-gpu 0 --console sh
 python -m rpipe status studies/cifar_grid
 ```
 
+## 时长预估
+
+launch 之前，按 make 的 conservative 秒数。同一 `wait` 里并行，组墙钟取该组最慢的一条；整轮是各组相加。这里每组只有 1 条。不含显存。
+
+| wait | factors | mode | seed | id | est |
+|---:|---|---|---:|---|---:|
+| 1 | model=linear | train | 0 | `28a64726010738fb` | 3s |
+| 2 | model=mlp | train | 0 | `b86a478be0bec010` | 4s |
+| 3 | model=cnn | train | 0 | `d657518c04ceffe1` | 7s |
+| 4 | model=resnet18 | train | 0 | `7c3f855ce3396781` | 20s |
+| 5 | model=linear | eval | 0 | `3ddb5e6cf166f93f` | 1s |
+| 6 | model=mlp | eval | 0 | `f487ffe68a52f01c` | 1s |
+| 7 | model=cnn | eval | 0 | `e55d19bc4b3d29c2` | 2s |
+| 8 | model=resnet18 | eval | 0 | `0f238fbd83ed13f8` | 5s |
+| | 整轮 | | | | 43s |
+
 ## 6. 成功标准
 
 - 8 次 Run `status: succeeded`
